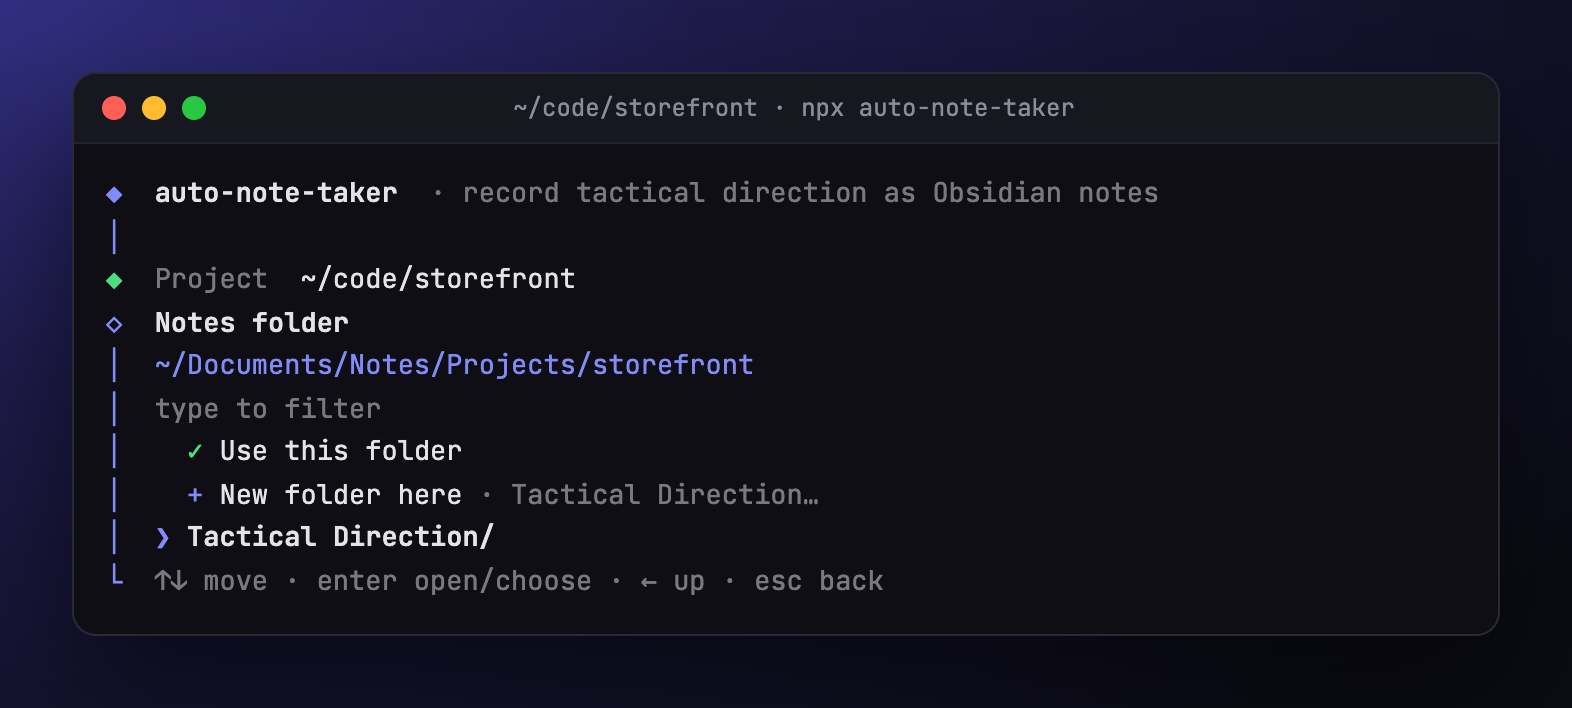
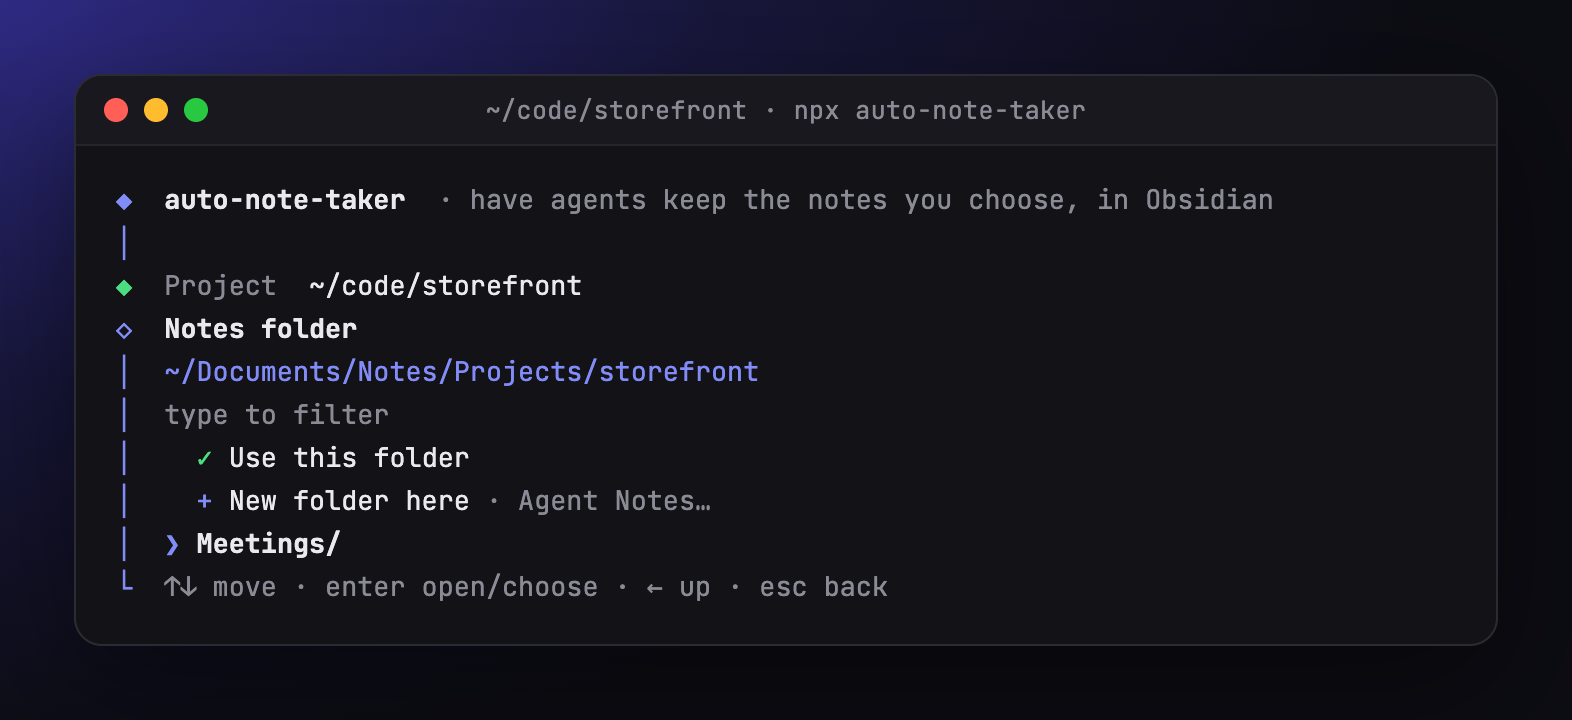
Regenerate wizard screenshots and update the README for note kinds
The wizard screenshots now come from docs/make-screenshots.py, which drives the
real wizard in a pseudo-terminal and captures each screen with headless Chrome,
so they cannot drift from the wizard again. New screenshots cover the Record,
Never record and Install? steps. The README no longer calls the repository
private, and the browser's "New folder here" default matches the new
Agent Notes folder name. The styling step's hint is shortened to fit 84 columns.

diff --git a/docs/make-screenshots.py b/docs/make-screenshots.py
@@ -1,0 +1,160 @@
+#!/usr/bin/env python3
+"""Regenerate the README's wizard screenshots (docs/images/wizard-*.png).
+
+Drives the real wizard in a pseudo-terminal with a staged home (a ~/code/storefront project and a
+~/Documents/Notes vault Obsidian knows about), renders each screen in the README's terminal frame, and
+captures it with headless Chrome at 2x. Needs macOS or Linux, Google Chrome, and `pip install pyte`.
+
+  python3 docs/make-screenshots.py [output dir, default docs/images]
+"""
+import html, json, os, pty, select, shutil, struct, subprocess, sys, tempfile, time, fcntl, termios
+from pathlib import Path
+import pyte
+
+REPO = Path(__file__).resolve().parents[1]
+OUT = Path(sys.argv[1]) if len(sys.argv) > 1 else REPO / "docs/images"
+HERE = Path(tempfile.mkdtemp(prefix="ant-shots-")).resolve()  # macOS: /var is /private/var, and the project path must sit under HOME
+OUT.mkdir(parents=True, exist_ok=True)
+COLS, ROWS = 84, 40
+CHROME = os.environ.get("CHROME") or next((c for c in ["/Applications/Google Chrome.app/Contents/MacOS/Google Chrome", shutil.which("google-chrome") or "", shutil.which("chromium") or ""] if c and Path(c).exists()), "google-chrome")
+
+# ---- staged home: a project and an Obsidian vault Obsidian knows about
+home = HERE / "home"
+proj = home / "code/storefront"
+proj.mkdir(parents=True)
+subprocess.run(["git", "init", "-q", str(proj)], check=True)
+(proj / "AGENTS.md").write_text("# Storefront\n\nUse pnpm.\n")
+vault = home / "Documents/Notes"
+for d in [".obsidian", "Journal", "Reading", "Projects/storefront/Meetings", "Projects/checkout"]:
+    (vault / d).mkdir(parents=True, exist_ok=True)
+reg = home / "Library/Application Support/obsidian"
+reg.mkdir(parents=True)
+(reg / "obsidian.json").write_text(json.dumps({"vaults": {"a": {"path": str(vault), "ts": 1}}}))
+
+screen = pyte.Screen(COLS, ROWS)
+stream = pyte.ByteStream(screen)
+pid, fd = pty.fork()
+if pid == 0:
+    os.chdir(proj)
+    os.environ.update(HOME=str(home), TERM="xterm-256color", COLORTERM="truecolor")
+    os.environ.pop("NO_COLOR", None)
+    os.execvp("node", ["node", str(REPO / "bin/install.mjs")])
+fcntl.ioctl(fd, termios.TIOCSWINSZ, struct.pack("HHHH", ROWS, COLS, 0, 0))
+
+
+def pump(t=0.5):
+    end = time.time() + t
+    while time.time() < end:
+        if select.select([fd], [], [], 0.05)[0]:
+            try:
+                data = os.read(fd, 65536)
+            except OSError:
+                return
+            # pyte has no "dim": carry it as blink (SGR 5) so the renderer can tell it apart
+            stream.feed(data.replace(b"\x1b[2m", b"\x1b[5m").replace(b"\x1b[22m", b"\x1b[22;25m"))
+
+
+KEYS = {"enter": b"\r", "down": b"\x1b[B", "up": b"\x1b[A", "home": b"\x1b[H", "end": b"\x1b[F", "space": b" "}
+
+
+def send(*keys):
+    for k in keys:
+        os.write(fd, KEYS.get(k, k.encode()))
+        pump(0.12)
+
+
+COLOR = {"default": "#e9e9ee", "green": "#4ade80", "brown": "#facc15", "yellow": "#facc15", "red": "#f87171"}
+DIM = "#8b8b96"
+
+
+def color(ch):
+    if ch.blink:
+        return DIM
+    fg = ch.fg
+    if fg in COLOR:
+        return COLOR[fg]
+    return "#" + fg if len(fg) == 6 else COLOR["default"]
+
+
+def rows():
+    lines = []
+    for y in range(ROWS):
+        row = screen.buffer[y]
+        cells = [row[x] for x in range(COLS)]
+        while cells and cells[-1].data == " ":
+            cells.pop()
+        lines.append(cells)
+    while lines and not lines[-1]:
+        lines.pop()
+    while lines and not lines[0]:
+        lines.pop(0)
+    return lines
+
+
+def to_html(lines):
+    out = []
+    for cells in lines:
+        parts, run, key = [], "", None
+        for ch in cells:
+            k = (color(ch), ch.bold)
+            if k != key and run:
+                parts.append((key, run)); run = ""
+            key = k; run += ch.data
+        if run:
+            parts.append((key, run))
+        out.append("".join(f'<span style="color:{c};{"font-weight:700;" if b else ""}">{html.escape(t)}</span>' for (c, b), t in parts) or "&nbsp;")
+    return "".join(f"<div class=l>{l}</div>" for l in out)
+
+
+PAGE = """<!doctype html><html><head><meta charset=utf-8>
+<link href="https://fonts.googleapis.com/css2?family=JetBrains+Mono:wght@400;700&display=block" rel=stylesheet>
+<style>
+html,body{{margin:0;background:#0b0b10}}
+.bg{{width:786px;padding:37px;box-sizing:border-box;background:radial-gradient(120% 140% at 0% 0%,#2e2a83 0%,#17163a 38%,#0c0c13 75%)}}
+.win{{background:#121217;border:1px solid #2b2b33;border-radius:14px;box-shadow:0 20px 60px rgba(0,0,0,.45);overflow:hidden}}
+.bar{{height:34px;display:flex;align-items:center;justify-content:center;position:relative;background:#18181e;border-bottom:1px solid #24242b;
+  font:400 12.5px/1 'JetBrains Mono',monospace;color:#8b8b96;letter-spacing:.2px}}
+.dots{{position:absolute;left:14px;top:11px;display:flex;gap:8px}}.dots i{{width:12px;height:12px;border-radius:50%;display:block}}
+.term{{padding:16px 20px 18px;font:400 13.4px/21.5px 'JetBrains Mono',monospace;white-space:pre;color:#e9e9ee;font-variant-ligatures:none}}
+</style></head><body><div class=bg id=shot><div class=win><div class=bar><div class=dots><i style="background:#ff5f57"></i><i style="background:#febc2e"></i><i style="background:#28c840"></i></div>~/code/storefront · npx auto-note-taker</div>
+<div class=term>{body}</div></div></div></body></html>"""
+
+
+def shoot(name):
+    pump(0.6)
+    lines = rows()
+    page = HERE / f"{name}.html"
+    page.write_text(PAGE.format(body=to_html(lines)))
+    height = round(37 * 2 + 34 + 1 + 16 + 18 + 2 + 21.5 * len(lines))
+    subprocess.run([CHROME, "--headless=new", "--hide-scrollbars", "--force-device-scale-factor=2", f"--window-size=786,{height}",
+                    "--virtual-time-budget=4000", f"--screenshot={OUT / (name + '.png')}", page.as_uri()],
+                   check=True, capture_output=True)
+    if not (OUT / (name + ".png")).is_file():
+        sys.exit(f"Chrome wrote no {name}.png; set CHROME to a Chrome or Chromium binary")
+    print(name, len(lines), "lines")
+
+
+pump(1.5)
+send("enter")                                   # project: this folder
+shoot("wizard-notes-folder")
+send("down", "enter")                           # Obsidian · Notes -> browser at the vault root
+send("down", "enter")                           # Journal, [Projects], Reading -> Projects
+send("down", "enter")                           # checkout, [storefront] -> storefront
+shoot("wizard-browse")
+send("home", "enter")                           # ✓ Use this folder
+send("down", "down", "down", "space")           # tick Decisions & tradeoffs
+send("end", "enter"); send(*"Perf wins"); send("enter")
+send(*"a change measurably sped something up"); send("enter")
+shoot("wizard-record")
+send("enter")
+send("end", "enter"); send(*"anything about the CI provider"); send("enter")
+shoot("wizard-never-record")
+send("enter")
+shoot("wizard-styling")
+send("enter")
+shoot("wizard-confirm")
+send("enter")
+pump(1.0)
+shoot("wizard-done")
+os.waitpid(pid, 0)
+shutil.rmtree(HERE, ignore_errors=True)

diff --git a/README.md b/README.md
@@ -43,7 +43,7 @@ The installer writes text; the agent does the recording.
 ## Requirements
 
 - Node.js 18 or newer.
-- Git with access to this repository (it is private; Git handles the credentials, the installer never sees them).
+- Git, which `npx` uses to fetch this repository from GitHub.
 - An agent that reads `AGENTS.md`.
 Claude Code reads `CLAUDE.md` instead: make `AGENTS.md` a symlink to `CLAUDE.md` (`ln -s CLAUDE.md AGENTS.md`) before installing, or add the line `@AGENTS.md` to `CLAUDE.md`.
 The installer follows a symlink as long as it stays inside the project.
@@ -87,7 +87,7 @@ The project is where `AGENTS.md` lives.
 
 ### 3. Choose the notes folder
 
-![The notes folder menu, offering the project default, an Obsidian vault found on this machine, Browse and Type a path](docs/images/wizard-notes-folder.png)
+![The notes folder menu, offering ./Agent Notes in the project, an Obsidian vault found on this machine, Browse and Type a path](docs/images/wizard-notes-folder.png)
 
 | Option | When to use it |
 |---|---|
@@ -102,7 +102,7 @@ A folder outside the project is recorded as an absolute path.
 
 ### 4. Browse to the folder
 
-![The folder browser inside a vault, with "Use this folder", "New folder here" and the Tactical Direction subfolder](docs/images/wizard-browse.png)
+![The folder browser at a project folder inside a vault, with "Use this folder", "New folder here" and a Meetings subfolder](docs/images/wizard-browse.png)
 
 The browser shows the current folder at the top, then two actions, then the subfolders.
 
@@ -126,6 +126,8 @@ Hidden folders, `node_modules` and `__pycache__` are not listed.
 
 ### 5. Choose what to record
 
+![The Record checklist: Pivots, Challenges & fixes, Decisions & tradeoffs and a custom "Perf wins" kind ticked, the other kinds unticked, and "Add your own kind…" at the bottom](docs/images/wizard-record.png)
+
 A checklist of note kinds, one per line with a short hint.
 Tick with `Space` and confirm with `Enter`; at least one kind is required.
 **Pivots** and **Challenges & fixes** start ticked; on a re-run, the list starts from your last choice.
@@ -135,6 +137,8 @@ To record something the list does not cover, choose **+ Add your own kind…**, 
 It joins the list ticked, gets its own folder named after it, and agents follow your sentence as its definition.
 
 ### 6. Choose what never to record
+
+![The Never record checklist: the four default exclusions and a custom "anything about the CI provider" rule ticked, brainstorming and repo facts unticked](docs/images/wizard-never-record.png)
 
 The same kind of checklist, for moments agents must leave out even when they fit a kind you chose.
 The first four start ticked:
@@ -153,7 +157,7 @@ Secrets are always redacted, whatever you tick.
 
 ### 7. Decide on styling
 
-![The styling step, listing the snippet, the appearance setting and the dashboard file it will add](docs/images/wizard-styling.png)
+![The styling step, listing the snippet, the appearance setting and the Agent Notes.base dashboard it will add](docs/images/wizard-styling.png)
 
 If the notes folder is inside an Obsidian vault, the wizard offers to add a styling snippet and a dashboard, and lists every file it would add (`+`) or change (`~`).
 See [Obsidian styling and dashboard](#obsidian-styling-and-dashboard) for what they do.
@@ -161,13 +165,15 @@ Choose **No** to keep the vault untouched; notes still render with stock Obsidia
 
 ### 8. Confirm
 
+![The Install? screen: the instructions file, the notes folder, the four kinds to record with their folders, and the five exclusions wrapped over two lines](docs/images/wizard-confirm.png)
+
 The last screen shows the instructions file, whether the block will be created, added or updated, the notes folder, the kinds to record with their folders, and what will never be recorded.
 Nothing is written before you choose **Yes**.
 `Esc` goes back a step at a time, keeping what you ticked.
 
 ### 9. Done
 
-![The finished install, listing every file written and the same install as a command without prompts](docs/images/wizard-done.png)
+![The finished install, listing every file written and the same install as a command, with --record, --add-kind, --skip and --add-skip flags](docs/images/wizard-done.png)
 
 The wizard lists every file it wrote and prints the same install as a command, with your kinds and exclusions as flags, that you can paste into a script, a README or another machine.
 Paths under your home folder print as `"$HOME/…"` so the command works for teammates too.
@@ -353,7 +359,7 @@ If you added the styling, also delete `.obsidian/snippets/tactical-direction.css
 
 | Symptom | Fix |
 |---|---|
-| `npx` cannot fetch the package | The repository is private. Check that `git ls-remote https://github.com/andyqioe/auto-note-taker` works for your account. |
+| `npx` cannot fetch the package | Check that `git ls-remote https://github.com/andyqioe/auto-note-taker` works from this machine (network, proxy or Git credentials). |
 | The wizard did not start | It only runs in a terminal with a path missing. Without a terminal, or with `--yes`, `--check` or both paths, it installs directly. |
 | A vault is missing from the list | The wizard lists vaults Obsidian has opened on this machine, five at most. Choose **Browse…** or **Type a path…** instead. |
 | The note looks plain in Obsidian | Check that the snippet is enabled in **Settings → Appearance → CSS snippets**, and that the note has `cssclasses: [agent-note]`. Reopen the vault if you installed while Obsidian was running. |
@@ -368,6 +374,7 @@ If you added the styling, also delete `.obsidian/snippets/tactical-direction.css
 
 ```text
 bin/install.mjs                      command-line flags and the wizard
+docs/make-screenshots.py             regenerates the wizard screenshots
 lib/install.mjs                      renders, plans and writes the managed block, and reads back its saved choice
 lib/kinds.mjs                        the note kinds and exclusions, and selection validation
 lib/obsidian.mjs                     vault discovery, snippet, and the dashboard generated from the chosen kinds
@@ -387,6 +394,16 @@ npm test
 ```
 
 Each prompt in `lib/ui.mjs` is a pure state machine (an initial state, a key handler and a render), so the tests drive it without a terminal.
+
+The wizard screenshots in `docs/images/wizard-*.png` are generated from the real wizard, so they never drift from it.
+After changing a screen, regenerate them (needs Google Chrome and `pip install pyte`):
+
+```sh
+python3 docs/make-screenshots.py
+```
+
+It runs the wizard in a pseudo-terminal against a staged `~/code/storefront` project and `~/Documents/Notes` vault in a temporary folder, and captures each screen in the terminal frame at 2x.
+The `note-*.png` images are real Obsidian captures and are not generated.
 
 For a portable package, run `npm pack` and install the `.tgz` with `npx --package ./auto-note-taker-<version>.tgz auto-note-taker`.
 No npm registry release is published; installing from GitHub does not need one.
